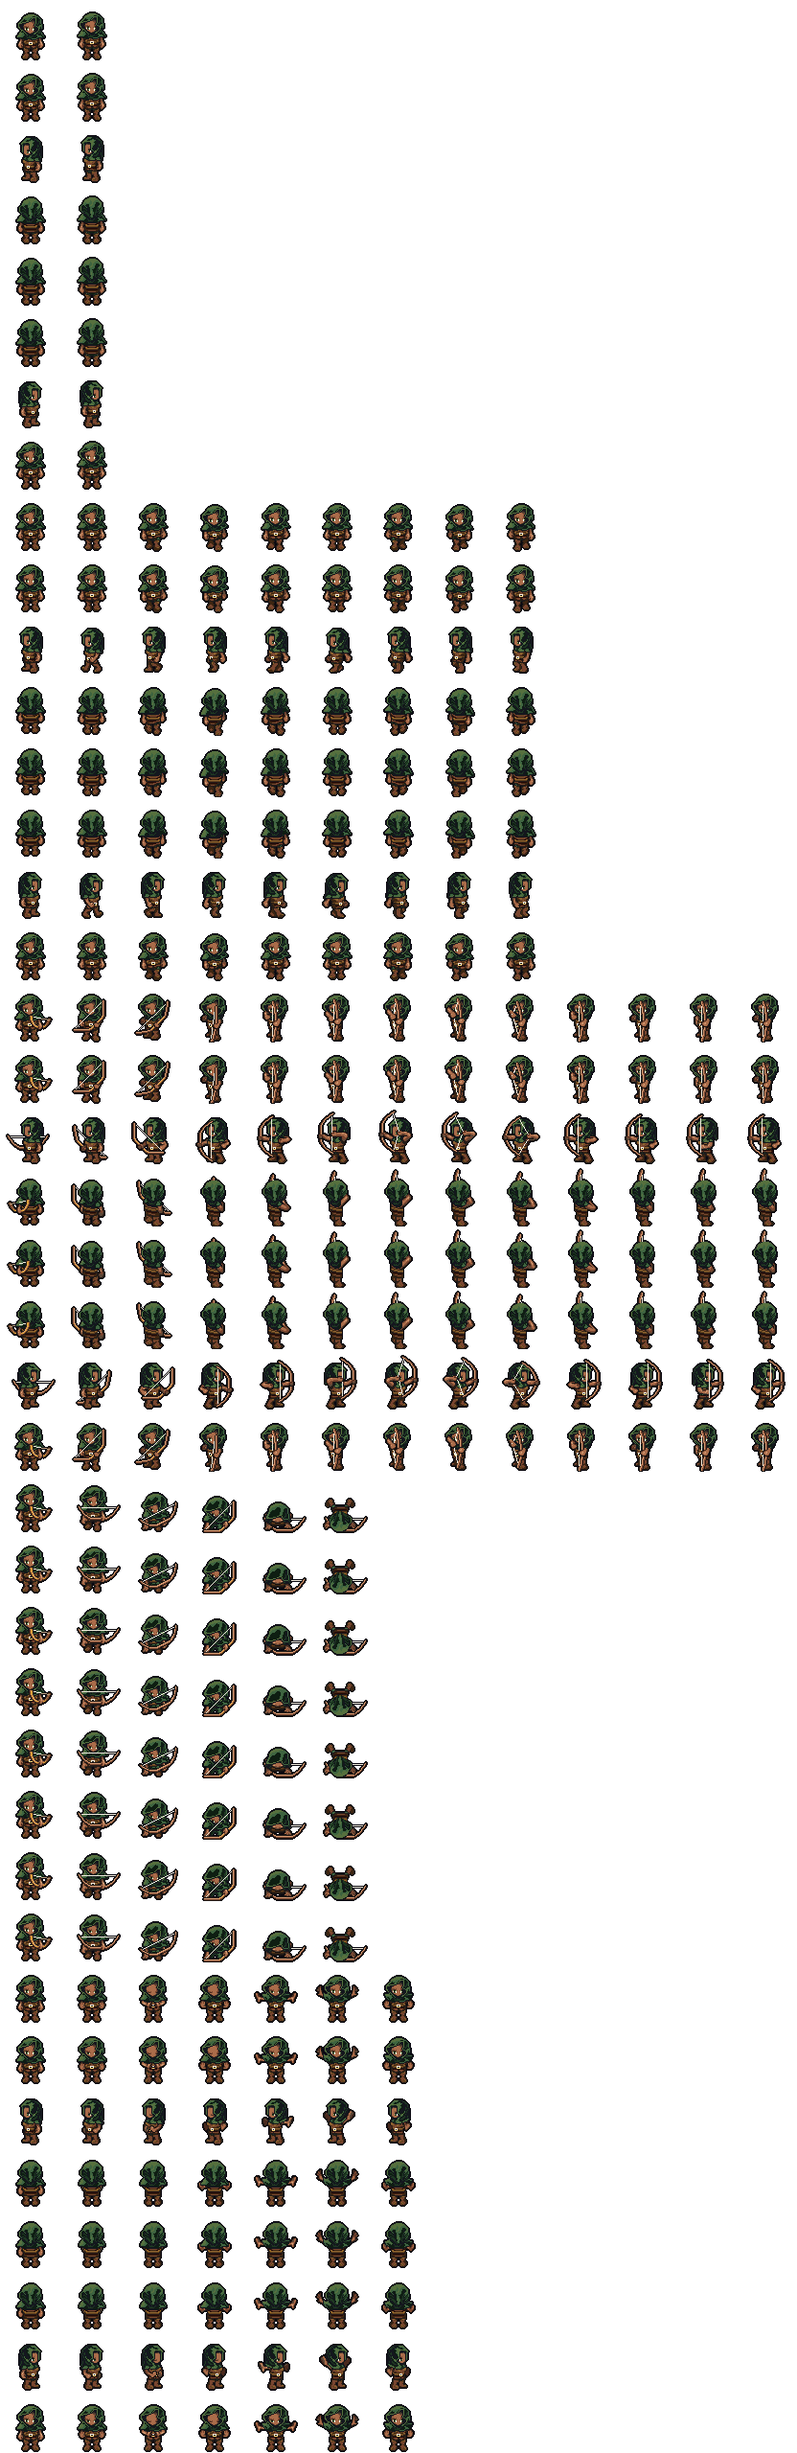
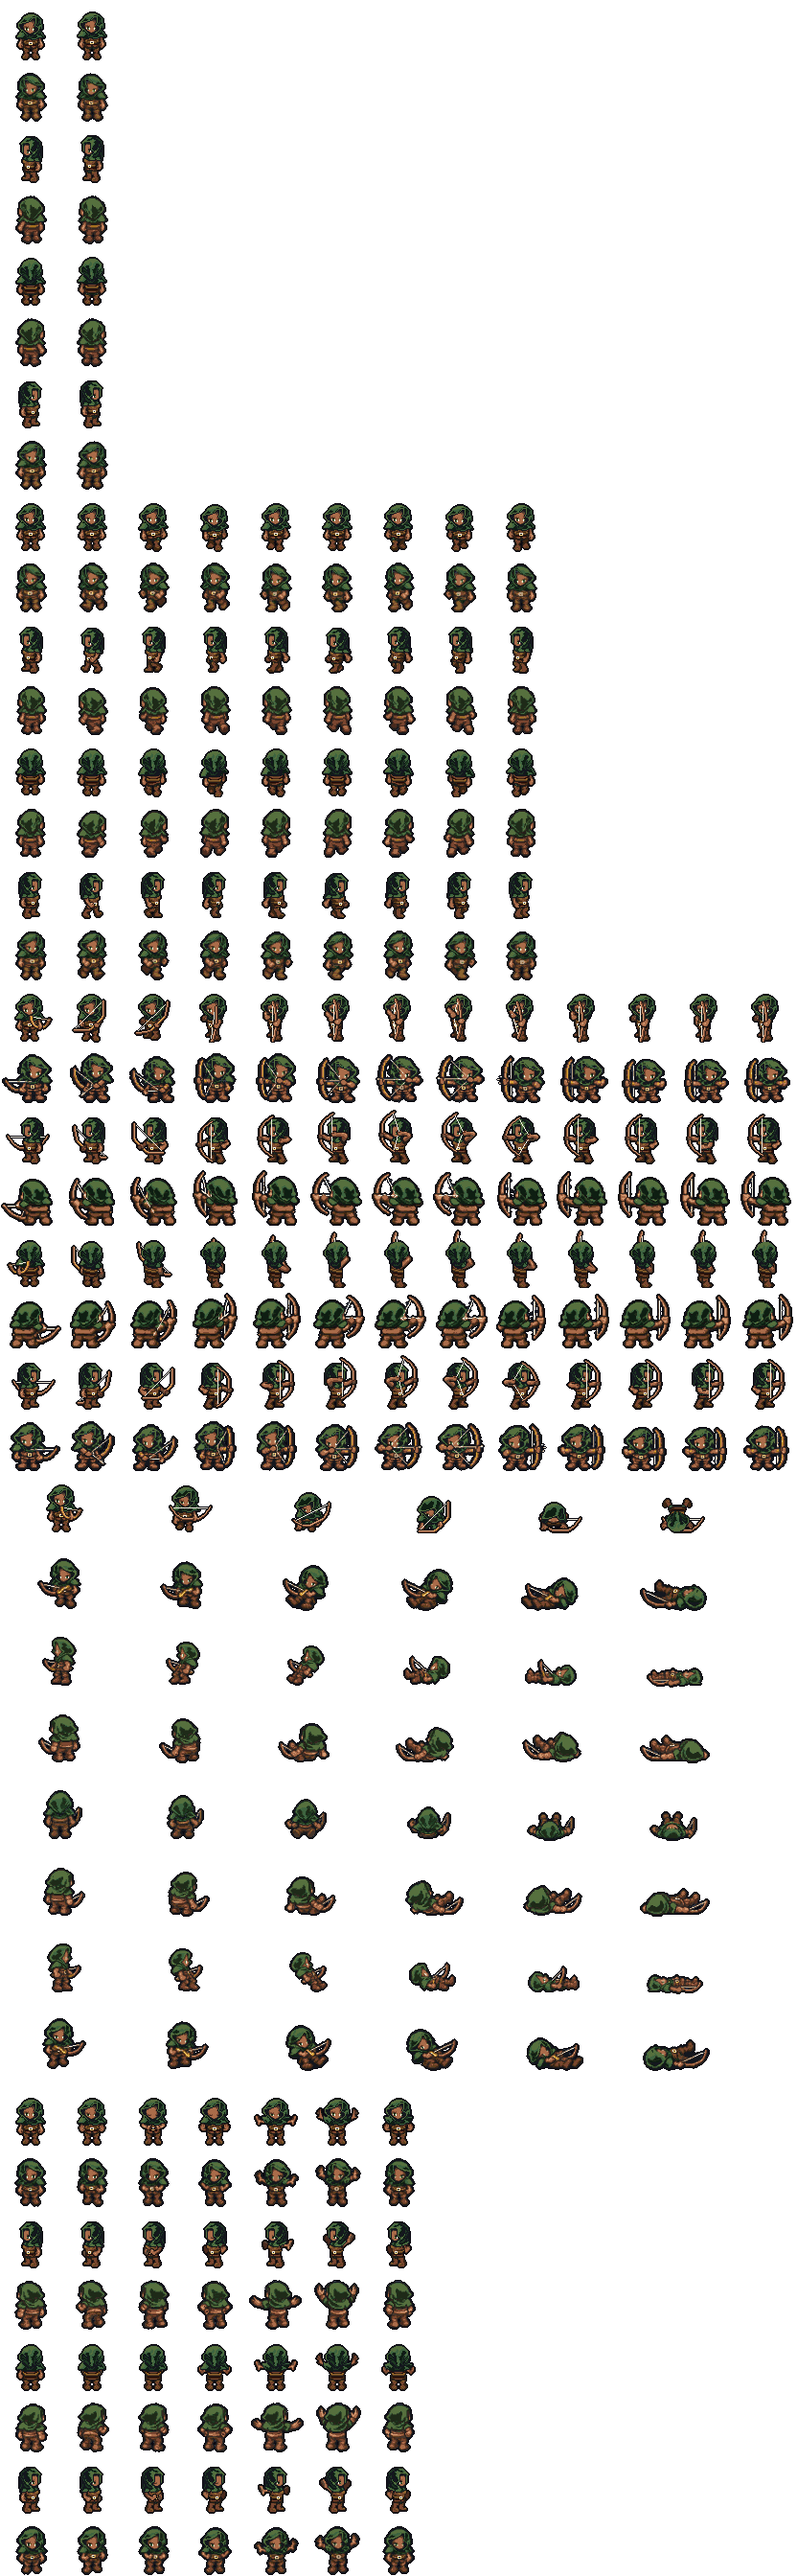
DEEP16: the ranger in all eight facings, his 13-frame bow Attack and Cast too, from the art desk's ART-65
The sixth LPC figure through tools/lpc-diag-sheet.py: npcranger_p0's SE (SW
mirrored) and NE (NW mirrored) in every row -- Idle, Walk, the bow Attack 13,
Hurt and Cast -- and E's (W mirrored) and N's Hurt, from ART-65's eight pages
(deep16/_src/npcranger/ART-65/, each matching its manifest sha256). Every LPC
drawing stays; the LPC figures before it unchanged (pixelate.py p0 reproduces
all six byte for byte).

The cutter takes a row drawn over several lines of a page: the spec names its
later lines `attack#2`, `attack#3`, and they are joined in order (`joined`,
`anim_of`). The attack pages are toned against LPC's own Attack, the only LPC
row with the bow in hand (`tone`). Shows: trooper wearing it (the bow attack)
and patrollady (cast). Eyes row eyes-ranger-eight-1015.

Griz, 10-15: "Yes, we might manage all the snoot art before we're out of usage".

Changed region(s): [[0.0, 0.0, 1.0, 1.0]]

diff --git a/js/eyes.js b/js/eyes.js
@@ -290,6 +290,9 @@
     'eyes-cleric-eight-1015': { pri: 2, group: G2, title: 'The cleric in all eight facings, his SIT and CAST too: the art desk’s ART-64, the fifth LPC figure (10-15)', pt: 'the bestiary §26, part 4 (tools/lpc-diag-sheet.py; deep16/art/npccleric_p0; snoot-mode/js/view.js V.FULL8) · eyes',
       url: 'deep16/?show=patrollady&sheet=npccleric_p0&fresh=1',
       look: 'The cleric -- the class cleric’s look in DEEP16 (the Pocket DM’s, deep16/?npc=cleric) and Newland’s heavy foot and crossbows in the Snoot. On the test ground the patrol ladies wear his sheet: they CAST (his prayer: hands together, arms out, arms up), walk and fall, every row twice. SE and SW are new in every row, CAST and SIT too, the mace on screen-right and the shield on screen-left; NE and NW likewise, from behind-right. E, W and N now fall forward, the mace dropped beside him (HURT is his death); S keeps LPC’s fall. Judge the turns S to SE to E and N to NE to E: one figure, one size, one colour (the shield-free pages were toned against LPC’s CAST). SIT never plays in a fight (it did not on main either): the row gallery shows it, deep16/?rows=trooper&sheet=npccleric_p0 (that page’s eyes column names the trooper’s row: mark this one here). His ATTACK: deep16/?show=trooper&sheet=npccleric_p0. In the Snoot his stacks now face NE and NW truly.' },
+    'eyes-ranger-eight-1015': { pri: 2, group: G2, title: 'The ranger in all eight facings, his 13-frame bow ATTACK and CAST too: the art desk’s ART-65, the sixth LPC figure (10-15)', pt: 'the bestiary §26, part 5 (tools/lpc-diag-sheet.py; deep16/art/npcranger_p0; snoot-mode/js/view.js V.FULL8) · eyes',
+      url: 'deep16/?show=trooper&sheet=npcranger_p0&fresh=1',
+      look: 'The ranger -- the class ranger’s look in DEEP16 (the Pocket DM’s, deep16/?npc=ranger) and Newland’s crossbows in the Snoot. On the test ground the troopers wear his sheet: his ATTACK is the bow, 13 frames (nock, draw, loose, recover), every row twice. SE and SW are new in every row, the bow on screen-right; NE and NW from behind-right. SE draws aiming hard toward screen-right, nearly E, as the art desk warned: does SE still read between S and E? The string is a one-pixel line at game size. E, W and N now fall (HURT is his death); S keeps LPC’s fall. Judge the turns S to SE to E and N to NE to E: one figure, one size. His CAST: deep16/?show=patrollady&sheet=npcranger_p0. In the Snoot his stacks now face NE and NW truly.' },
     'eyes-snoot-ring-1015c': { pri: 1, group: G2, title: 'THE SNOOT: the ring of commands, the camera a step closer, the ground past the edge, the stacks in formation; AVOID, surprise, the road bonus (10-15)', pt: 'the Snoot mode §15 (snoot-mode/js/view.js, ui.js, rules.js) · eyes',
       url: 'snoot-mode/?fresh',
       look: 'NEW BATTLE. The map opens a step closer than the whole map; the dim ground runs on past every edge, the west, south and pirate roads out of it. The wheel (or + and -) steps the zoom about the mouse, a drag or the arrows pan. Each stack stands in its formation -- a line abreast across its facing, a column in file, the death-watch in a ring -- with a chevron on the side it faces. Click Newland\'s road patrol: a ring of buttons round it -- HOLD, CHARGE?, AVOID, LINE, COLUMN, SQUARE and the two turns (the four get only their orders); AVOID holds and slips a hex away from anything that comes. Resolve days: a fight opens with each side\'s die for surprise (SURPRISE! on a 1 or 2: the unready side taken in the flank in the first round); a unit under AVOID that is come at shows THEY SLIP AWAY or CAUGHT with its roll; the Dominion\'s wagons at the inn avoid. Newland\'s horse in column on the road march two hexes further; foot in column no further.' },

diff --git a/deep16/index.html b/deep16/index.html
@@ -77,7 +77,7 @@
 <script src="js/art.js?v=e1ce4cf012"></script>
 <script src="data/cavern.js?v=647c1a184a"></script>
 <script src="data/maps.js?v=971b4fe9e6"></script>
-<script src="data/sprites.js?v=71eac105dd"></script>
+<script src="data/sprites.js?v=634e37476d"></script>
 <script src="js/sprites.js?v=82883d13a8"></script>
 <script src="js/save.js?v=65142ffd7b"></script>
 <script src="data/spells.js?v=2b8e2ed5b1"></script>
@@ -143,7 +143,7 @@
 <script src="js/embed.js?v=fde3abdebd"></script>
 <script src="js/show.js?v=8e550011f4"></script>
 <script src="js/skyshow.js?v=7151daab7a"></script>
-<script src="../js/eyes.js?v=0f643f3a87"></script>
+<script src="../js/eyes.js?v=c183eff4c4"></script>
 <script src="js/onegallery.js?v=175d0ae3bd"></script>
 <script src="js/main.js?v=39cd8f6139"></script>
 </body>

diff --git a/deep16/data/sprites.js b/deep16/data/sprites.js
@@ -6972,7 +6972,7 @@
 }
 },
 "npcranger_p0": {
-"image": "art/npcranger_p0.png?v=3edb9d5358",
+"image": "art/npcranger_p0.png?v=1d5465211c",
 "fw": 64,
 "fh": 64,
 "ax": 32,
@@ -7008,21 +7008,44 @@
 },
 "hurt": {
 "y": 1536,
-"fw": 64,
-"fh": 64,
-"ax": 32,
+"fw": 128,
+"fh": 80,
+"ax": 64,
 "ay": 61,
 "frames": 6,
 "fps": 10
 },
 "cast": {
-"y": 2048,
+"y": 2176,
 "fw": 64,
 "fh": 64,
 "ax": 32,
 "ay": 61,
 "frames": 7,
 "fps": 10
+}
+},
+"diag": {
+"by": "tools/lpc-diag-sheet.py",
+"from": "ART-65",
+"drawn": [
+"SE idle/walk",
+"SE attack",
+"SE hurt/cast",
+"NE idle/walk",
+"NE attack",
+"NE hurt/cast",
+"E hurt",
+"N hurt"
+],
+"owed": [],
+"lpc_cells": {
+"hurt": [
+64,
+64,
+32,
+61
+]
 }
 }
 },

diff --git a/tools/lpc-diag-sheet.py b/tools/lpc-diag-sheet.py
@@ -236,6 +236,47 @@ FIGS = {
                          rows=[('hurt', (180, 180, 2117, 540), (540, 582), NUM(6))]),
         },
         owed={}),
+    # (his bow Attack is 13 frames drawn over three lines of its page: `attack`, `attack#2`, `attack#3`, joined in order; its pages are
+    # toned against LPC's own Attack, the only LPC row with the bow in hand)
+    'npcranger': dict(                                        # ART-65, 10-15: eight pages (deep16/_src/npcranger/ART-65/); HEADs 1 and 2 three each
+        dir='npcranger/ART-65',
+        pages={
+            'H1P1': dict(file='ART-65_HEAD-1_PAGE-1.png', view='SE', ref=('idle', '1'), chan=14,          # SE: Idle 2, Walk 9
+                         text=[(0, 185, 240, 252), (0, 460, 240, 528), (240, 350, 2081, 382), (240, 640, 2081, 676)],
+                         rows=[('idle', (240, 50, 2081, 350), (350, 382), NUM(2)),
+                               ('walk', (240, 385, 2081, 640), (640, 676), NUM(9))]),
+            'H1P2': dict(file='ART-65_HEAD-1_PAGE-2.png', view='SE', ref=('attack', '1'), chan=14, tone=('attack', 'attack'),   # SE: Attack 13
+                         text=[(0, 95, 240, 156), (0, 355, 240, 415), (0, 577, 240, 638),
+                               (240, 224, 2158, 255), (240, 476, 2158, 506), (240, 697, 2158, 724)],
+                         rows=[('attack', (240, 5, 2158, 225), (225, 255), NUM(5)),
+                               ('attack#2', (240, 258, 2158, 476), (476, 506), ['6', '7', '8', '9', '10']),
+                               ('attack#3', (240, 508, 2158, 724), (698, 724), ['11', '12', '13'])]),
+            'H1P3': dict(file='ART-65_HEAD-1_PAGE-3.png', view='SE', ref=('cast', '1'), chan=14,          # SE: Hurt 6, Cast 7
+                         text=[(0, 165, 240, 230), (0, 487, 240, 551), (240, 329, 2172, 360), (240, 634, 2172, 670)],
+                         rows=[('hurt', (240, 30, 2172, 329), (329, 360), NUM(6)),
+                               ('cast', (240, 365, 2172, 634), (634, 670), NUM(7))]),
+            'H2P1': dict(file='ART-65_HEAD-2_PAGE-1.png', view='NE', ref=('idle', '1'), chan=14,          # NE: Idle 2, Walk 9
+                         text=[(0, 183, 230, 250), (0, 495, 230, 561), (230, 337, 2073, 373), (230, 646, 2073, 685)],
+                         rows=[('idle', (230, 40, 2073, 337), (337, 373), NUM(2)),
+                               ('walk', (230, 380, 2073, 646), (646, 685), NUM(9))]),
+            'H2P2': dict(file='ART-65_HEAD-2_PAGE-2.png', view='NE', ref=('attack', '1'), chan=14, tone=('attack', 'attack'),   # NE: Attack 13
+                         text=[(0, 115, 260, 170), (0, 348, 260, 402), (0, 570, 260, 625),
+                               (260, 224, 2172, 258), (260, 451, 2172, 482), (260, 674, 2172, 708)],
+                         rows=[('attack', (260, 5, 2172, 224), (224, 258), NUM(5)),
+                               ('attack#2', (260, 262, 2172, 451), (451, 482), ['6', '7', '8', '9', '10']),
+                               ('attack#3', (260, 486, 2172, 674), (674, 708), ['11', '12', '13'])]),
+            'H2P3': dict(file='ART-65_HEAD-2_PAGE-3.png', view='NE', ref=('cast', '1'), chan=14,          # NE: Hurt 6, Cast 7
+                         text=[(0, 128, 230, 195), (0, 456, 230, 523), (230, 316, 2091, 354), (230, 652, 2091, 690)],
+                         rows=[('hurt', (230, 30, 2091, 316), (316, 354), NUM(6)),
+                               ('cast', (230, 360, 2091, 652), (652, 690), NUM(7))]),
+            'H4P1': dict(file='ART-65_HEAD-4_PAGE-1.png', view='E', ref=('hurt', '1'), chan=14,           # E: Hurt 6
+                         text=[(0, 226, 185, 305), (185, 630, 2172, 674)],
+                         rows=[('hurt', (185, 200, 2172, 630), (630, 674), NUM(6))]),
+            'H5P1': dict(file='ART-65_HEAD-5_PAGE-1.png', view='N', ref=('hurt', '1'), against='N', chan=14,   # N: Hurt 6
+                         text=[(0, 320, 200, 396), (200, 546, 2172, 598)],
+                         rows=[('hurt', (200, 180, 2172, 546), (546, 598), NUM(6))]),
+        },
+        owed={}),
 }
 
 
@@ -417,7 +458,7 @@ def cut_pages(fig, ref_h, cellof, pal, old, tone=True, overlays=None, report=Non
     views, clipped = {}, []
     for L, pg in cfg['pages'].items():
         over = [] if overlays is not None else None
-        cuts = SR.cut_sheet(os.path.join(SRC, cfg['dir'], pg['file']), pg, cuts=pg.get('cuts'), overlay=over, tag=L)
+        cuts = joined(SR.cut_sheet(os.path.join(SRC, cfg['dir'], pg['file']), pg, cuts=pg.get('cuts'), overlay=over, tag=L))
         if overlays is not None:
             overlays[L] = over[0]
         ran, rnm = pg['ref']
@@ -445,11 +486,26 @@ def cut_pages(fig, ref_h, cellof, pal, old, tone=True, overlays=None, report=Non
     return views, clipped
 
 
+def anim_of(row):
+    """a spec row's anim: a row drawn over several lines of a page names its later lines `attack#2`, `attack#3` (the ranger's Attack 13)"""
+    return row.split('#')[0]
+
+
+def joined(cuts):
+    """a page's cut rows with an anim's later lines (`attack#2` ...) joined onto its first, in order"""
+    out = {}
+    for an in dict.fromkeys(anim_of(r) for r in cuts):        # (the anims in the page's own order)
+        for row in sorted((r for r in cuts if anim_of(r) == an), key=lambda r: int(r.split('#')[1]) if '#' in r else 1):
+            out.setdefault(an, []).extend(cuts[row])
+    return out
+
+
 def written(fig):
     """(anim, facing index) pairs the figure's pages write"""
     out = set()
     for L, pg in FIGS[fig]['pages'].items():
         for an, *_ in pg['rows']:
+            an = anim_of(an)
             out.add((an, FACINGS.index(pg['view'])))
             if pg['view'] in MIRROR:
                 out.add((an, FACINGS.index(MIRROR[pg['view']])))
@@ -499,7 +555,7 @@ def build(fig, meta, sheet, colours=None, overlays=None, report=None, tone=True)
                 out[y0 + f * fh:y0 + (f + 1) * fh, i * fw:(i + 1) * fw] = fr
         y0 += 8 * fh
     meta['diag'] = {'by': 'tools/lpc-diag-sheet.py', 'from': FIGS[fig]['dir'].split('/')[-1],
-                    'drawn': ['%s %s' % (pg['view'], '/'.join(r[0] for r in pg['rows'])) for pg in FIGS[fig]['pages'].values()],
+                    'drawn': ['%s %s' % (pg['view'], '/'.join(dict.fromkeys(anim_of(r[0]) for r in pg['rows']))) for pg in FIGS[fig]['pages'].values()],
                     'owed': list(FIGS[fig]['owed'].values()),
                     'lpc_cells': {an: list(od[an]) for an in od if new_dims[an] != od[an]}}
     bad = unchanged_check(fig, meta, out, od, old)
